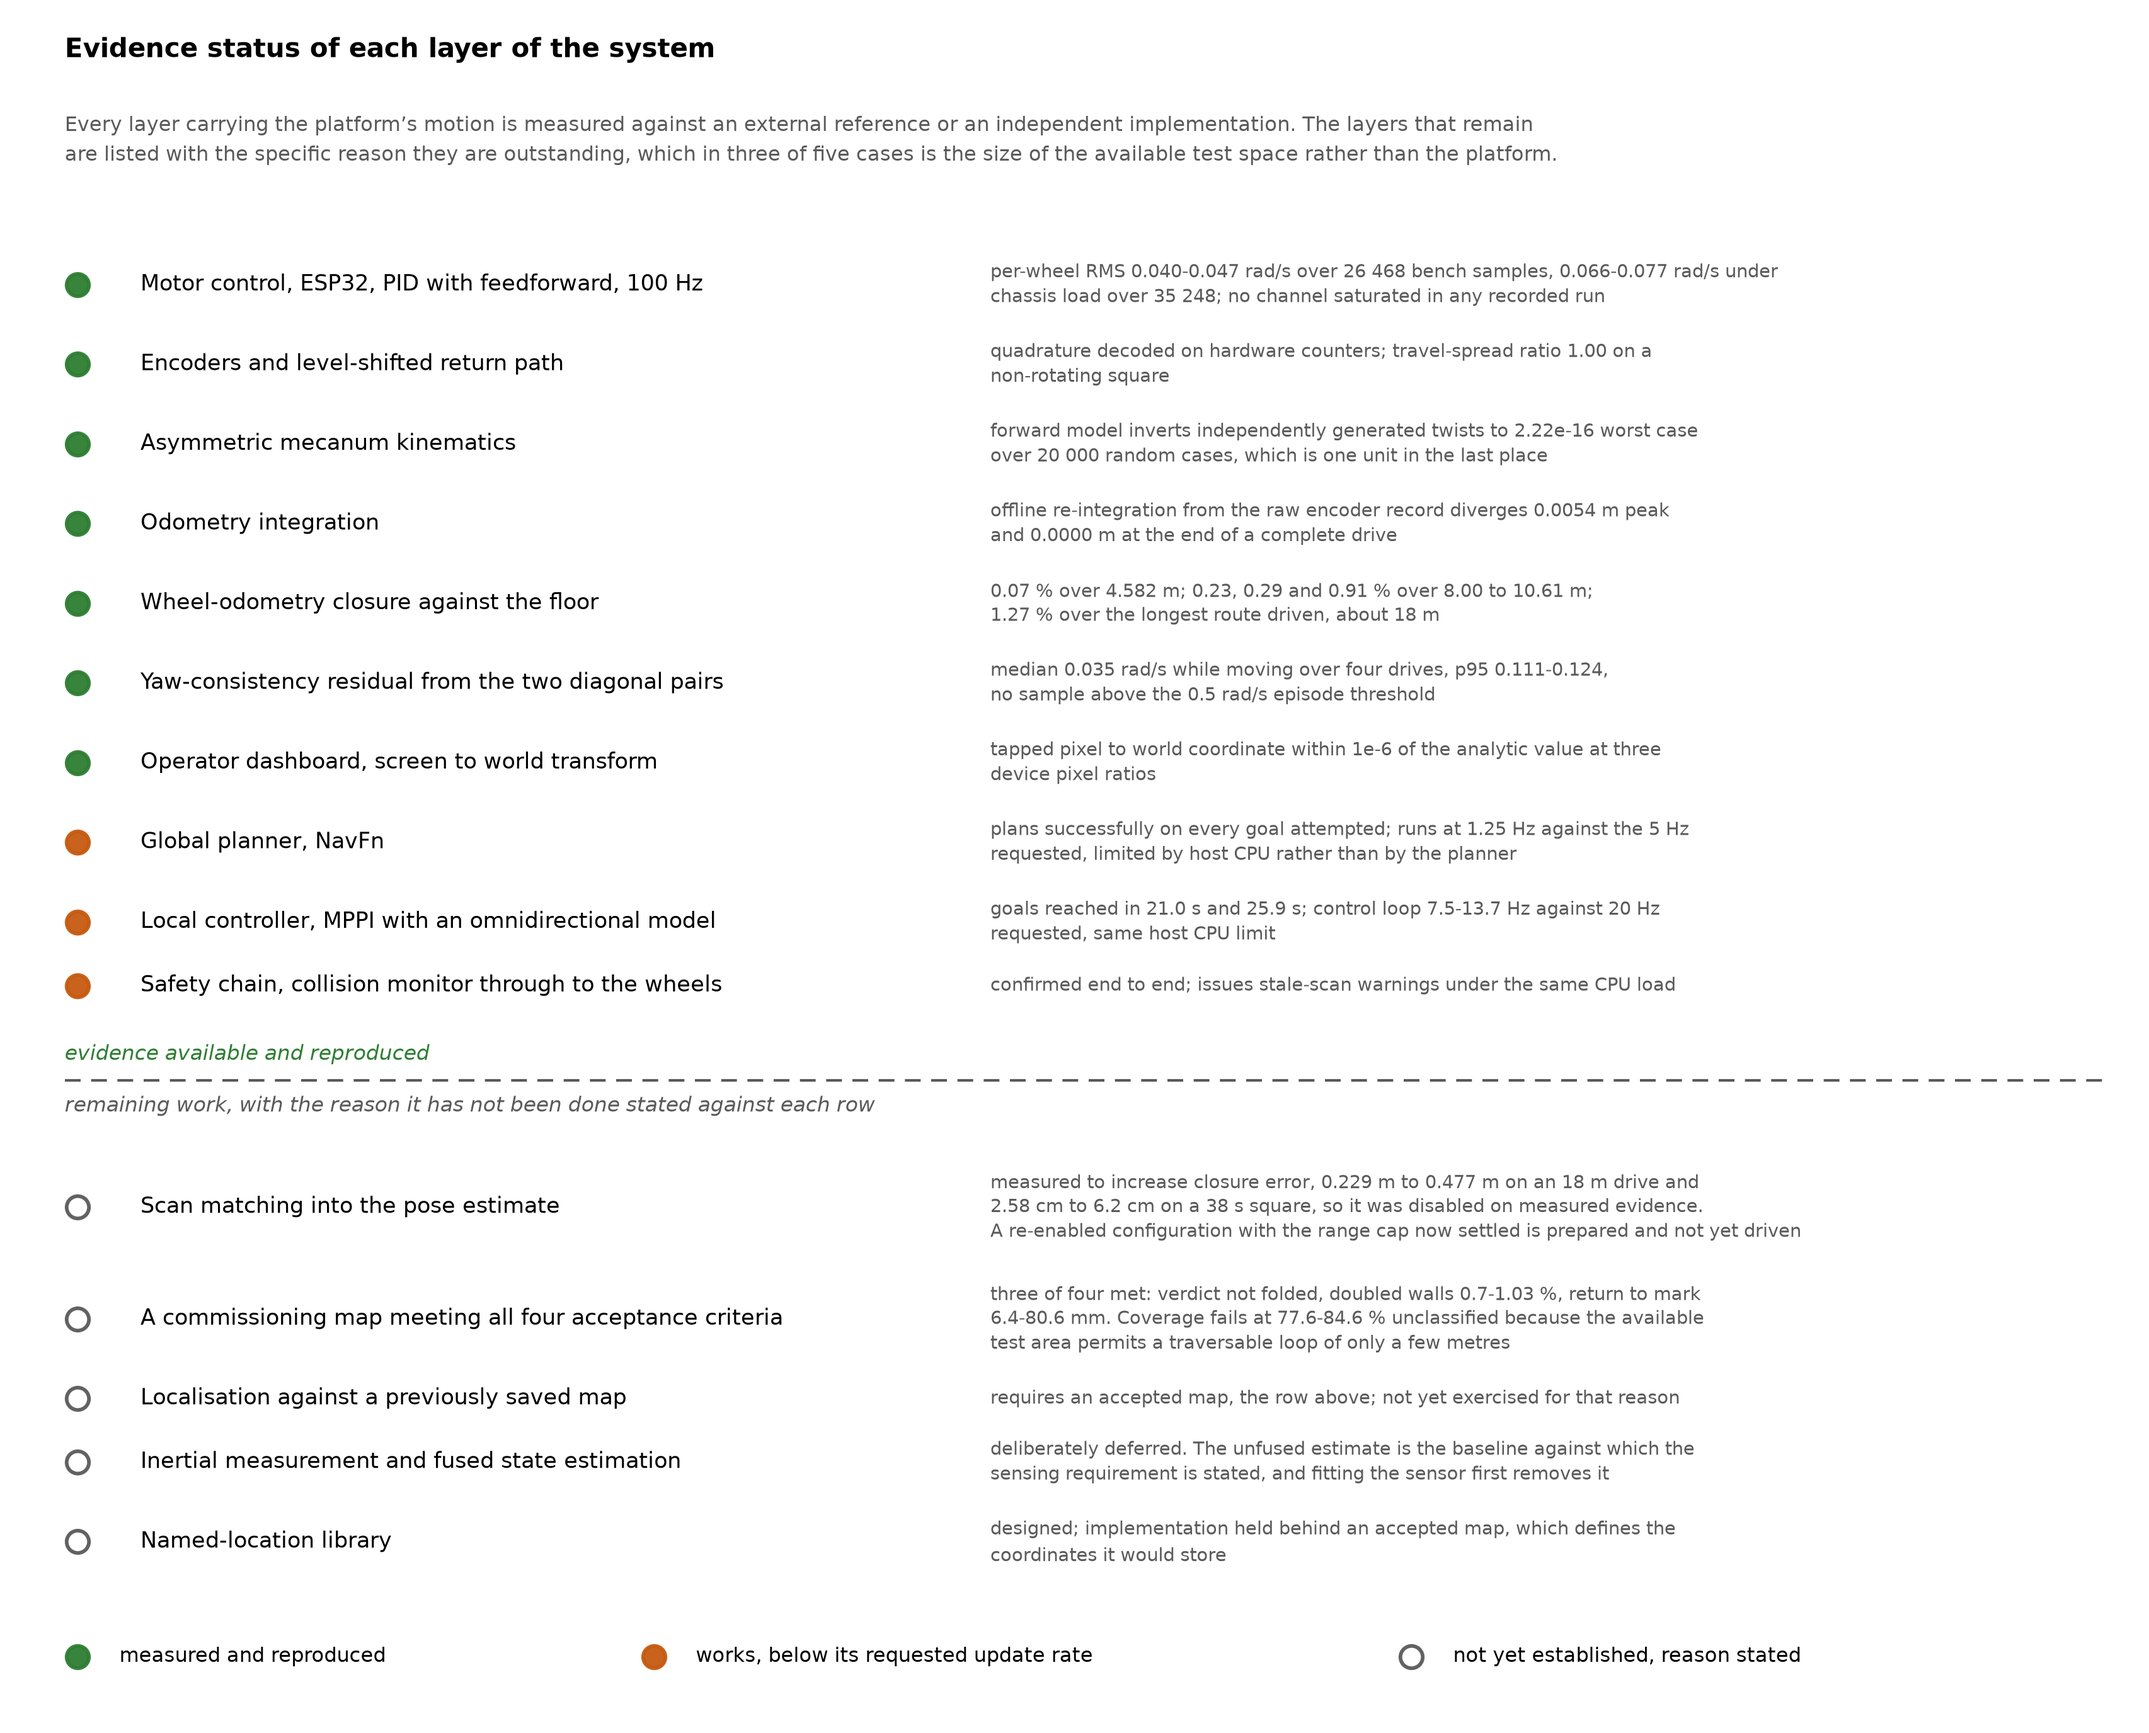
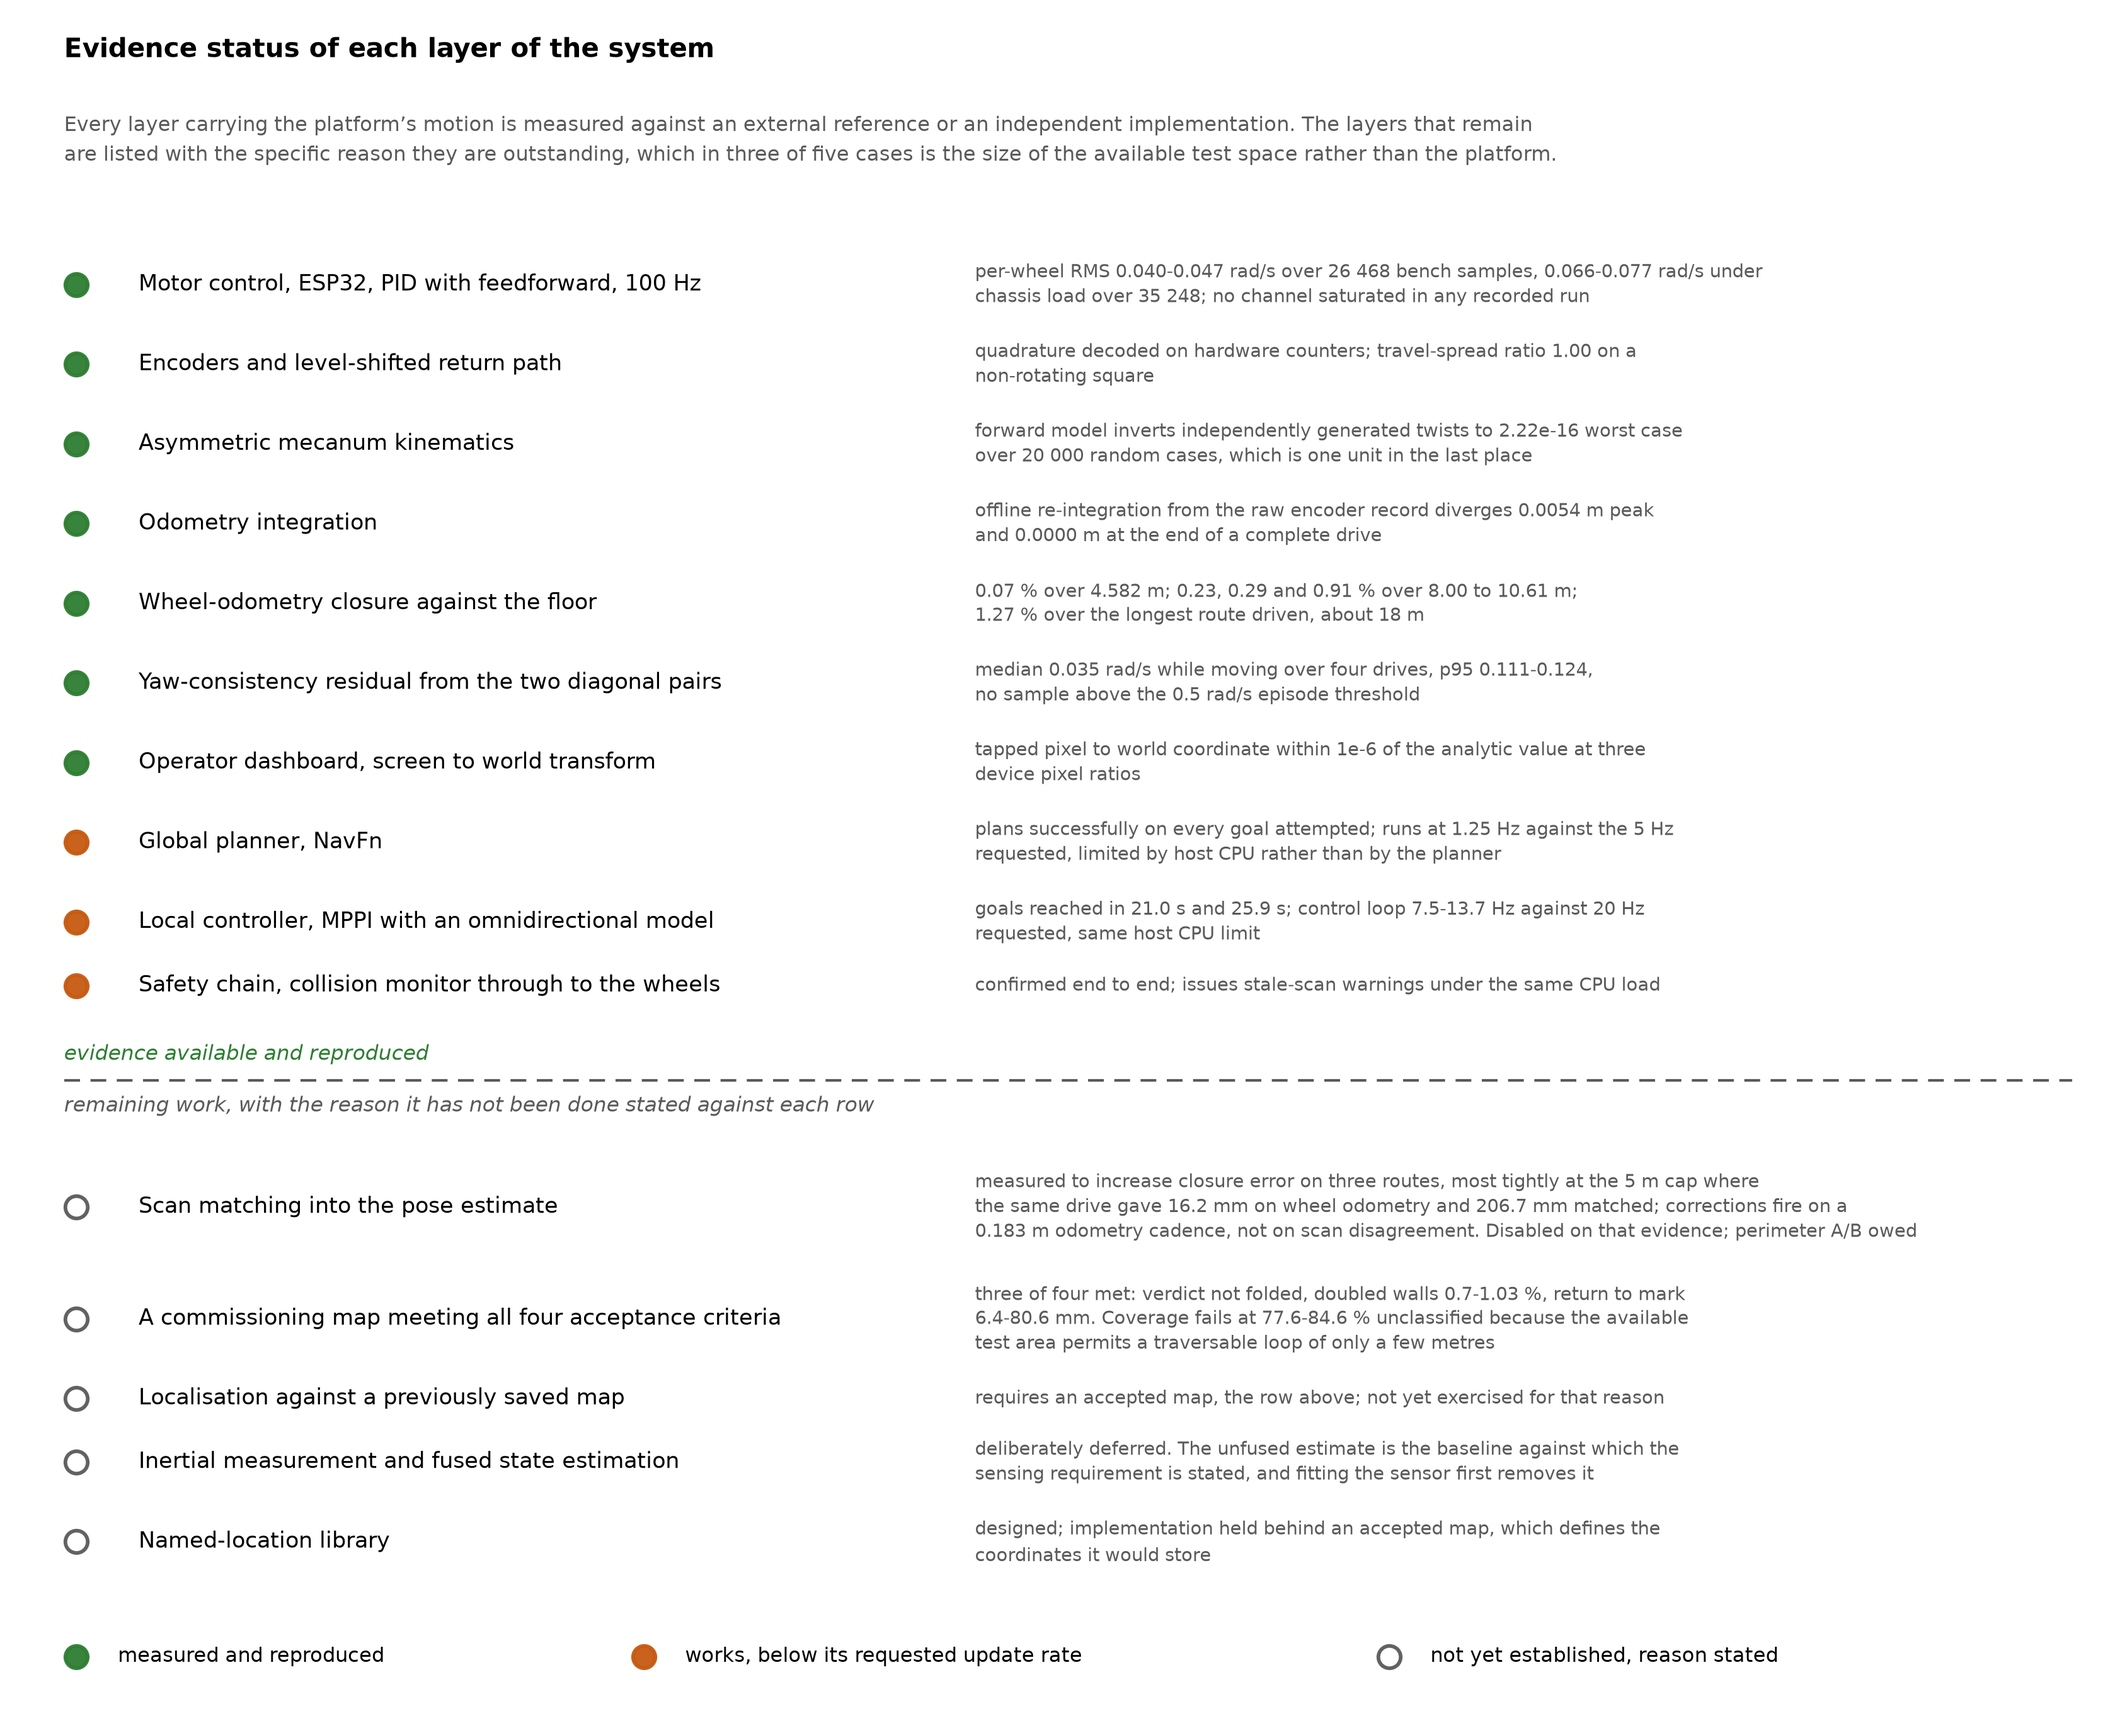
Correct the scan-matching row: Stage H was driven and scored
The layer-status figure said a 5 m-cap matcher configuration was "prepared
and not yet driven". It was driven on 15 Sep at 20:22:58 and scored against
pre-committed criteria; docs/evidence/stageH_15sep/ carries the run, and
Audit_2026-09-15_night.md summarises it. The claim came from reading
Session_Handoff_2026-09-15_evening.md, which was written before that drive,
without checking for a later document.

The result is stronger than what the row previously claimed. Same 3.193 m of
driving, same wheels, same scans, robot physically returned to the mark:
wheel odometry closed 16.2 mm (0.51 %), the matched estimate 206.7 mm
(6.47 %). The run carries its own control, so a sick-odometry explanation is
ruled out on the drive itself. All seventeen corrections fired at a mean
odometry spacing of 0.183 m with about a centimetre of spread, tracking
pose-graph node creation rather than scan disagreement, and the smallest was
106.7 mm against a 150 mm search half-width.

Caveat kept: the route was a tight circle, which the project's own notes
flag as degenerate geometry for a matcher, so the perimeter A/B is still
owed.

Claude-Session: https://claude.ai/code/session_018Rq7SH2yyXHL25hgCc3wZN

diff --git a/docs/aps_report/figure_src/f_layers.py b/docs/aps_report/figure_src/f_layers.py
@@ -35,9 +35,9 @@ L = [
  ('Safety chain, collision monitor through to the wheels', 'rate',
   'confirmed end to end; issues stale-scan warnings under the same CPU load'),
  ('Scan matching into the pose estimate', 'open',
-  'measured to increase closure error, 0.229 m to 0.477 m on an 18 m drive and\n'
-  '2.58 cm to 6.2 cm on a 38 s square, so it was disabled on measured evidence.\n'
-  'A re-enabled configuration with the range cap now settled is prepared and not yet driven'),
+  'measured to increase closure error on three routes, most tightly at the 5 m cap where\n'
+  'the same drive gave 16.2 mm on wheel odometry and 206.7 mm matched; corrections fire on a\n'
+  '0.183 m odometry cadence, not on scan disagreement. Disabled on that evidence; perimeter A/B owed'),
  ('A commissioning map meeting all four acceptance criteria', 'open',
   'three of four met: verdict not folded, doubled walls 0.7-1.03 %, return to mark\n'
   '6.4-80.6 mm. Coverage fails at 77.6-84.6 % unclassified because the available\n'
